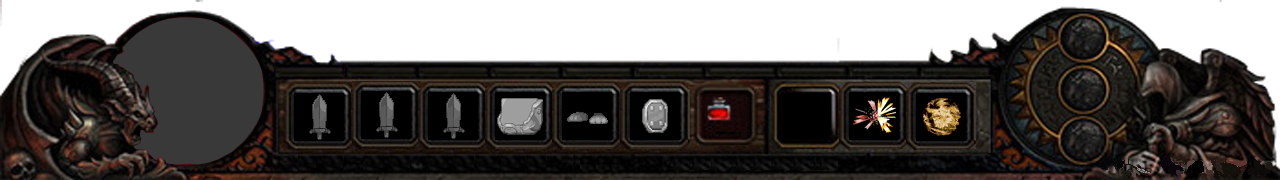
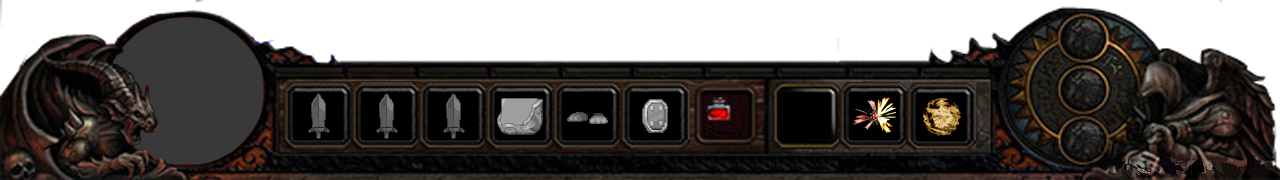
[정기]Item창 draw

Changed region(s): [[0.2188, 0.4444, 0.3438, 0.6389], [0.2188, 0.6667, 0.3125, 0.8333]]

diff --git a/Brave-Pig/Brave-Pig/Brave-Pig/Items/ItemManager.cs b/Brave-Pig/Brave-Pig/Brave-Pig/Items/ItemManager.cs
@@ -21,25 +21,33 @@ namespace Brave_Pig.Items
         public static Dictionary<string, Armor> armors =
             new Dictionary<string, Armor>();
 
-        public static List<Sword> haveSwords =
-            new List<Sword>();
-        public static List<Armor> haveArmors =
-            new List<Armor>();
+        public static List<string> haveSwords =
+            new List<string>();
+        public static List<string> haveArmors =
+            new List<string>();
 
         private static string currentSword;
 
-        public static void Initialize()
+        public static void Initialize(ContentManager content)
         {
             swords.Add("Basic", new Sword(0, 10, 15, 20, 25));
-            swords.Add("Blue", new Sword(0, 15, 20, 25, 30));
-            swords.Add("Red", new Sword(0, 20, 25, 30, 35));
-            swords.Add("Yellow", new Sword(0, 25, 30, 35, 40));
+            swords.Add("Blue", new Sword(0, 15, 20, 25, 30, content.Load<Texture2D>("Item/sword1")));
+            swords.Add("Red", new Sword(0, 20, 25, 30, 35, content.Load<Texture2D>("Item/sword2")));
+            swords.Add("Yellow", new Sword(0, 25, 30, 35, 40, content.Load<Texture2D>("Item/sword3")));
 
-            armors.Add("Armor", new Armor(0, 10));
-            armors.Add("Boots", new Armor(0, 10));
-            armors.Add("Shield", new Armor(0, 10));
+            armors.Add("Armor", new Armor(0, 10, content.Load<Texture2D>("Item/armor")));
+            armors.Add("Boots", new Armor(0, 10, content.Load<Texture2D>("Item/boots")));
+            armors.Add("Shield", new Armor(0, 10,content.Load<Texture2D>("Item/shield")));
 
             currentSword = "Basic";
+            // UI test 중
+            haveSwords.Add("Blue");
+            //haveSwords.Add("Red");
+            //haveSwords.Add("Yellow");
+
+            //haveArmors.Add("Armor");
+            //haveArmors.Add("Boots");
+            //haveArmors.Add("Shield");
         }
 
         public static string getCurrentSword()
@@ -52,11 +60,11 @@ namespace Brave_Pig.Items
         }
         public static void gainSword(string newSword)
         {
-            haveSwords.Add(swords[newSword]);
+            haveSwords.Add(newSword);
         }
         public static void gainArmor ( string newArmor )
         {
-            haveArmors.Add(armors[newArmor]);
+            haveArmors.Add(newArmor);
         }
     }
 }

diff --git a/Brave-Pig/Brave-Pig/Brave-Pig/UI/ItemWindow.cs b/Brave-Pig/Brave-Pig/Brave-Pig/UI/ItemWindow.cs
@@ -1,0 +1,54 @@
+using System;
+using System.Collections.Generic;
+using System.Linq;
+using Microsoft.Xna.Framework;
+using Microsoft.Xna.Framework.Audio;
+using Microsoft.Xna.Framework.Content;
+using Microsoft.Xna.Framework.GamerServices;
+using Microsoft.Xna.Framework.Graphics;
+using Microsoft.Xna.Framework.Input;
+using Microsoft.Xna.Framework.Media;
+using Brave_Pig.Character;
+using Brave_Pig.BasicObject;
+using Brave_Pig.Monsters;
+using Brave_Pig.Items;
+
+///Sword & Armor Item Draw
+namespace Brave_Pig.UI
+{
+    class ItemWindow
+    {
+        public void DrawSword(SpriteBatch spriteBatch, int BottomUIWidth, int BottomUIHeight, int BottomY)
+        {
+            int Width = ( BottomUIWidth * 70 ) / 1280;
+            int Height = (BottomUIHeight * 66) / 180;
+            int X = ( BottomUIWidth * 284 ) / 1280;
+            int Y = BottomY + (BottomUIHeight * 81) / 180;
+
+            for ( int i = 0 ; i < ItemManager.haveSwords.Count ; i++ )
+            {
+                spriteBatch.Draw(ItemManager.swords[ItemManager.haveSwords[i]].getImage(),
+                    new Rectangle(X, Y, Width, Height),
+                    Color.White);
+
+                X = X + ( BottomUIWidth * 67 ) / 1280;
+            }
+        }
+        public void DrawArmor ( SpriteBatch spriteBatch, int BottomUIWidth, int BottomUIHeight, int BottomY )
+        {
+            int Width = ( BottomUIWidth * 70 ) / 1280;
+            int Height = ( BottomUIHeight * 66 ) / 180;
+            int X = ( BottomUIWidth * 485 ) / 1280;
+            int Y = BottomY + ( BottomUIHeight * 81 ) / 180;
+
+            for ( int i = 0 ; i < ItemManager.haveArmors.Count ; i++ )
+            {
+                spriteBatch.Draw(ItemManager.armors[ItemManager.haveArmors[i]].getImage(),
+                    new Rectangle(X, Y, Width, Height),
+                    Color.White);
+
+                X = X + ( BottomUIWidth * 67 ) / 1280;
+            }
+        }
+    }
+}

diff --git a/Brave-Pig/Brave-Pig/Brave-Pig/Character/Player.cs b/Brave-Pig/Brave-Pig/Brave-Pig/Character/Player.cs
@@ -95,24 +95,28 @@ namespace Brave_Pig.Character
             {
                 newAnimation = "normal2";
             }
+
             velocity = new Vector2(0, velocity.Y);
             //GamePadState gamePad = GamePad.GetState(PlayerIndex.One); //xbox 패드 입력값
             KeyboardState keyState = Keyboard.GetState(); //키보드 입력값
 
-            if (keyState.IsKeyDown(Keys.D2))
+            if ( keyState.IsKeyDown(Keys.D1) && ItemManager.haveSwords.Contains("Blue"))
             {
-                stat.useSword = 1;
+                ItemManager.setCurrentSword("Blue");
             }
-
-            if (keyState.IsKeyDown(Keys.D1))
+            if ( keyState.IsKeyDown(Keys.D2) && ItemManager.haveSwords.Contains("Red"))
             {
-                stat.useSword = 0;
+                ItemManager.setCurrentSword("Red");
             }
+            if ( keyState.IsKeyDown(Keys.D3) && ItemManager.haveSwords.Contains("Yellow"))
+            {
+                ItemManager.setCurrentSword("Yellow");
+            }            
 
             #region attack
             if (keyState.IsKeyDown(Keys.Space))
             {
-                if (stat.useSword == 0)
+                if (ItemManager.getCurrentSword() == "Basic")
                 {
                     int attack_num = num.Next(0, 10);
                     if (direct == 0)
@@ -135,7 +139,7 @@ namespace Brave_Pig.Character
                         velocity = new Vector2(0, velocity.Y);
                     }
                 }// 기본 무기 공격 애니메이션
-                else if (stat.useSword == 1)
+                else if (ItemManager.getCurrentSword() == "Blue")
                 {
                     int attack_num = num.Next(0, 10);
                     if (direct == 0)

diff --git a/Brave-Pig/Brave-Pig/Brave-Pig/Items/Sword.cs b/Brave-Pig/Brave-Pig/Brave-Pig/Items/Sword.cs
@@ -21,6 +21,7 @@ namespace Brave_Pig.Items
         int skill1;
         int skill2;
         int skill3;
+        Texture2D swordImage;
 
         public Sword ( int num, int att, int skillDam1, int skillDam2, int skillDam3 )
         {
@@ -29,6 +30,15 @@ namespace Brave_Pig.Items
             skill1 = skillDam1;
             skill2 = skillDam2;
             skill3 = skillDam3;
+        }
+        public Sword ( int num, int att, int skillDam1, int skillDam2, int skillDam3, Texture2D image )
+        {
+            itemNum = num;
+            attack = att;
+            skill1 = skillDam1;
+            skill2 = skillDam2;
+            skill3 = skillDam3;
+            swordImage = image;
         }
 
         public int getSword ( )
@@ -46,6 +56,10 @@ namespace Brave_Pig.Items
         public int getSkill3 ( )
         {
             return skill3;
+        }
+        public Texture2D getImage()
+        {
+            return swordImage;
         }
     }
 }

diff --git a/Brave-Pig/Brave-Pig/Brave-Pig/UI/BottomUI.cs b/Brave-Pig/Brave-Pig/Brave-Pig/UI/BottomUI.cs
@@ -21,6 +21,7 @@ namespace Brave_Pig.UI
 
         HP hp;
         MP mp;
+        ItemWindow itemWindow;
 
         #endregion
 
@@ -29,6 +30,7 @@ namespace Brave_Pig.UI
         {
             hp = new HP();
             mp = new MP();
+            itemWindow = new ItemWindow();
         }
         public void LoadContent ( ContentManager content )
         {
@@ -57,6 +59,8 @@ namespace Brave_Pig.UI
 
             hp.Draw(spriteBatch, UIfont, BottomUIWidth, BottomUIHeight, BottomY);
             mp.Draw(spriteBatch, BottomUIWidth, BottomUIHeight, BottomY);
+            itemWindow.DrawSword(spriteBatch, BottomUIWidth, BottomUIHeight, BottomY);
+            itemWindow.DrawArmor(spriteBatch, BottomUIWidth, BottomUIHeight, BottomY);
         }
         #endregion
     }

diff --git a/Brave-Pig/Brave-Pig/Brave-Pig/Items/Armor.cs b/Brave-Pig/Brave-Pig/Brave-Pig/Items/Armor.cs
@@ -18,16 +18,23 @@ namespace Brave_Pig.Items
     {
         int itemNum;
         int defense;
+        Texture2D ArmorImage;
 
-        public Armor(int num, int def)
+        public Armor(int num, int def, Texture2D image)
         {
             itemNum = num;
             defense = def;
+
+            ArmorImage = image;
         }
 
         public int getArmor()
         {
             return defense;
+        }
+        public Texture2D getImage()
+        {
+            return ArmorImage;
         }
     }
 }

diff --git a/Brave-Pig/Brave-Pig/Brave-Pig/Game1.cs b/Brave-Pig/Brave-Pig/Brave-Pig/Game1.cs
@@ -73,7 +73,7 @@ namespace Brave_Pig
             graphics.ApplyChanges();
 
             SoundManager.Initialize();
-            ItemManager.Initialize();
+            ItemManager.Initialize(Content);
             screen.Initialize(GraphicsDevice);
             mainUI.Initialize(GraphicsDevice);
             
